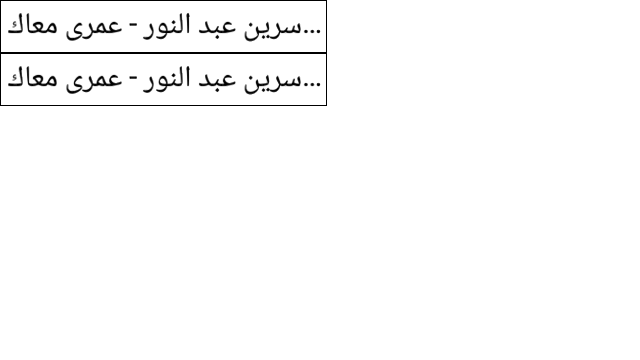
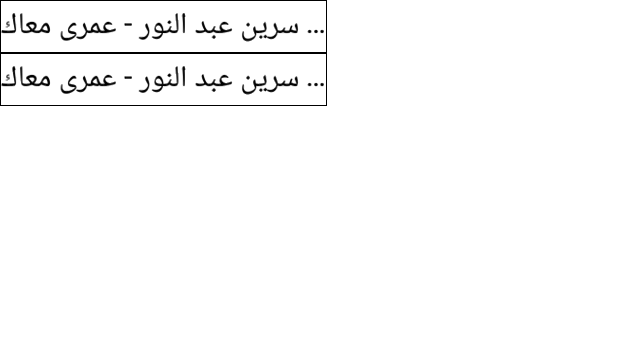
Change first font family to Roboto in layout test

Changed region(s): [[0.0, 0.1833, 0.5, 0.275], [0.0, 0.0306, 0.5, 0.1222]]

diff --git a/cobalt/layout_tests/testdata/css3-ui/5-2-shaped-text-should-accurately-calculate-width-before-ellipsis.html b/cobalt/layout_tests/testdata/css3-ui/5-2-shaped-text-should-accurately-calculate-width-before-ellipsis.html
@@ -12,7 +12,7 @@
   <meta charset="utf-8">
   <style>
     body {
-      font-family: Noto Naskh Arabic;
+      font-family: Roboto, Noto Naskh Arabic;
       font-size: 30px;
     }
     div {
